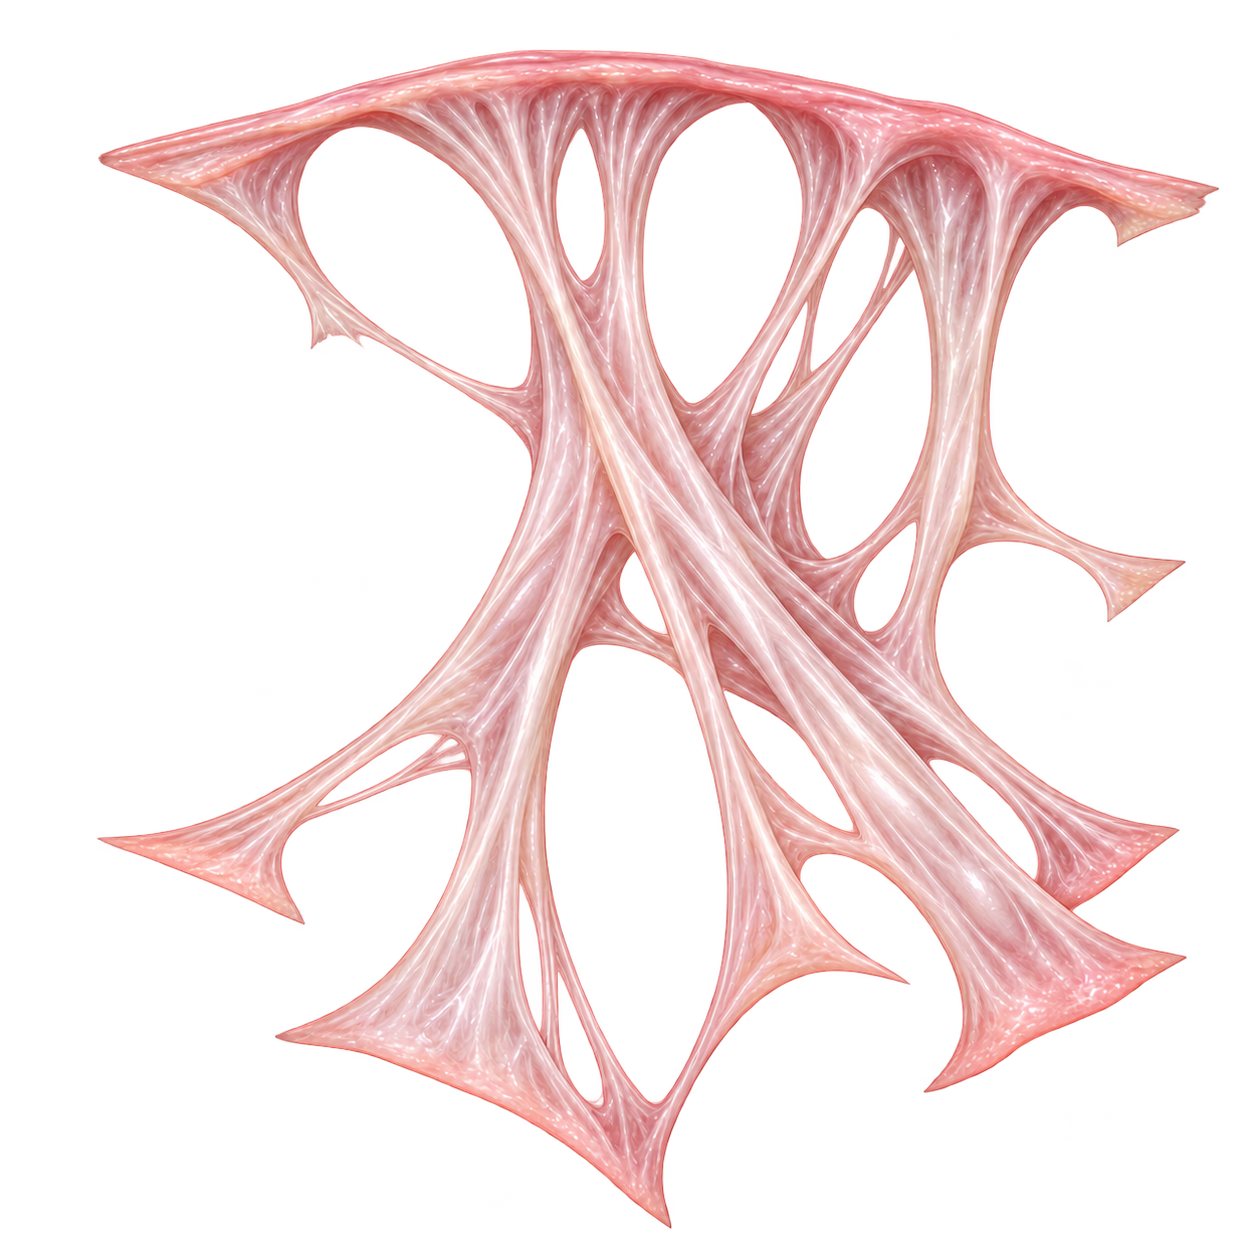
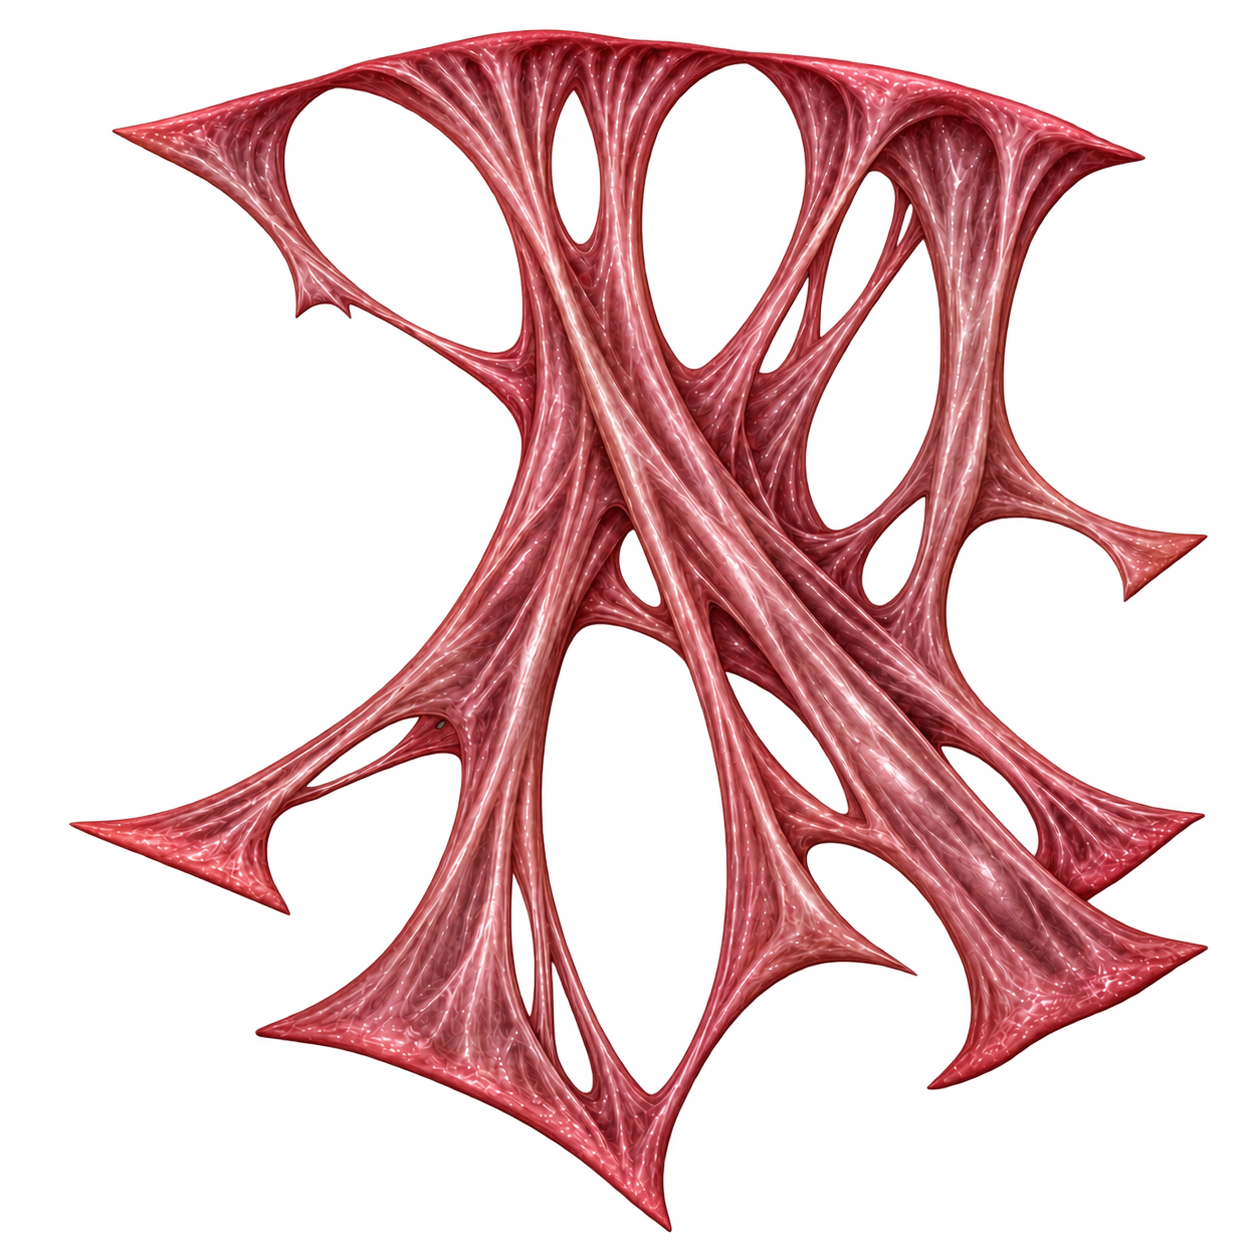
Substitui imagem de Aderências 1 pela nova referência

diff --git a/experimento-editor.html b/experimento-editor.html
@@ -51,8 +51,8 @@
             <img src="assets/lesoes/diu-hormonal-referencia.png" alt="" />
             <span>DIU hormonal</span>
           </button>
-          <button class="modelo-lesao" type="button" data-modelo="assets/lesoes/aderencias-1-referencia.png" data-nome="Aderências 1" data-proporcao="1" data-sem-recorte="true">
-            <img src="assets/lesoes/aderencias-1-referencia.png" alt="" />
+          <button class="modelo-lesao" type="button" data-modelo="assets/lesoes/aderencias-1-referencia.png?versao=2" data-nome="Aderências 1" data-proporcao="1" data-sem-recorte="true">
+            <img src="assets/lesoes/aderencias-1-referencia.png?versao=2" alt="" />
             <span>Aderências 1</span>
           </button>
           <button class="modelo-lesao" type="button" data-modelo="assets/lesoes/aderencia-2-referencia.png" data-nome="Aderência 2" data-proporcao="1" data-sem-recorte="true">

diff --git a/output/estudos-realismo/RETOMADA.md b/output/estudos-realismo/RETOMADA.md
@@ -6,6 +6,8 @@ Continuar no editor manual experimental. Usar os mapas anatômicos já salvos no
 
 ## Entregas de hoje, salvas e publicadas
 
+- Atualização de Aderências 1: Daniel pediu retirar a imagem antiga de `Aderências.png` e usar a nova `Aderência 1.png`. Substituído o conteúdo de `assets/lesoes/aderencias-1-referencia.png` pela nova imagem original, mantendo uma única opção “Aderências 1”. Referência no editor usa `?versao=2` para atualizar a imagem armazenada pelo navegador. Aderência 2, 3 e 4 permanecem disponíveis.
+
 - Daniel pediu acrescentar separadamente `Aderência 2.png`, `Aderência 3.png` e `Aderência 4.png`, com os nomes dos arquivos. Opções “Aderência 2”, “Aderência 3” e “Aderência 4” adicionadas com suas respectivas imagens originais em `assets/lesoes/aderencia-2-referencia.png`, `aderencia-3-referencia.png` e `aderencia-4-referencia.png`. Todas 1254 × 1254, com transparência, sem recorte e tamanho inicial de 100%.
 
 - Daniel enviou `Aderências.png` e pediu a opção “Aderências 1”. Imagem original preservada em `assets/lesoes/aderencias-1-referencia.png`, 1254 × 1254, com transparência, sem recorte e tamanho inicial padrão de 100%. Usa os controles manuais de posição, tamanho, rotação, nome e medidas.
